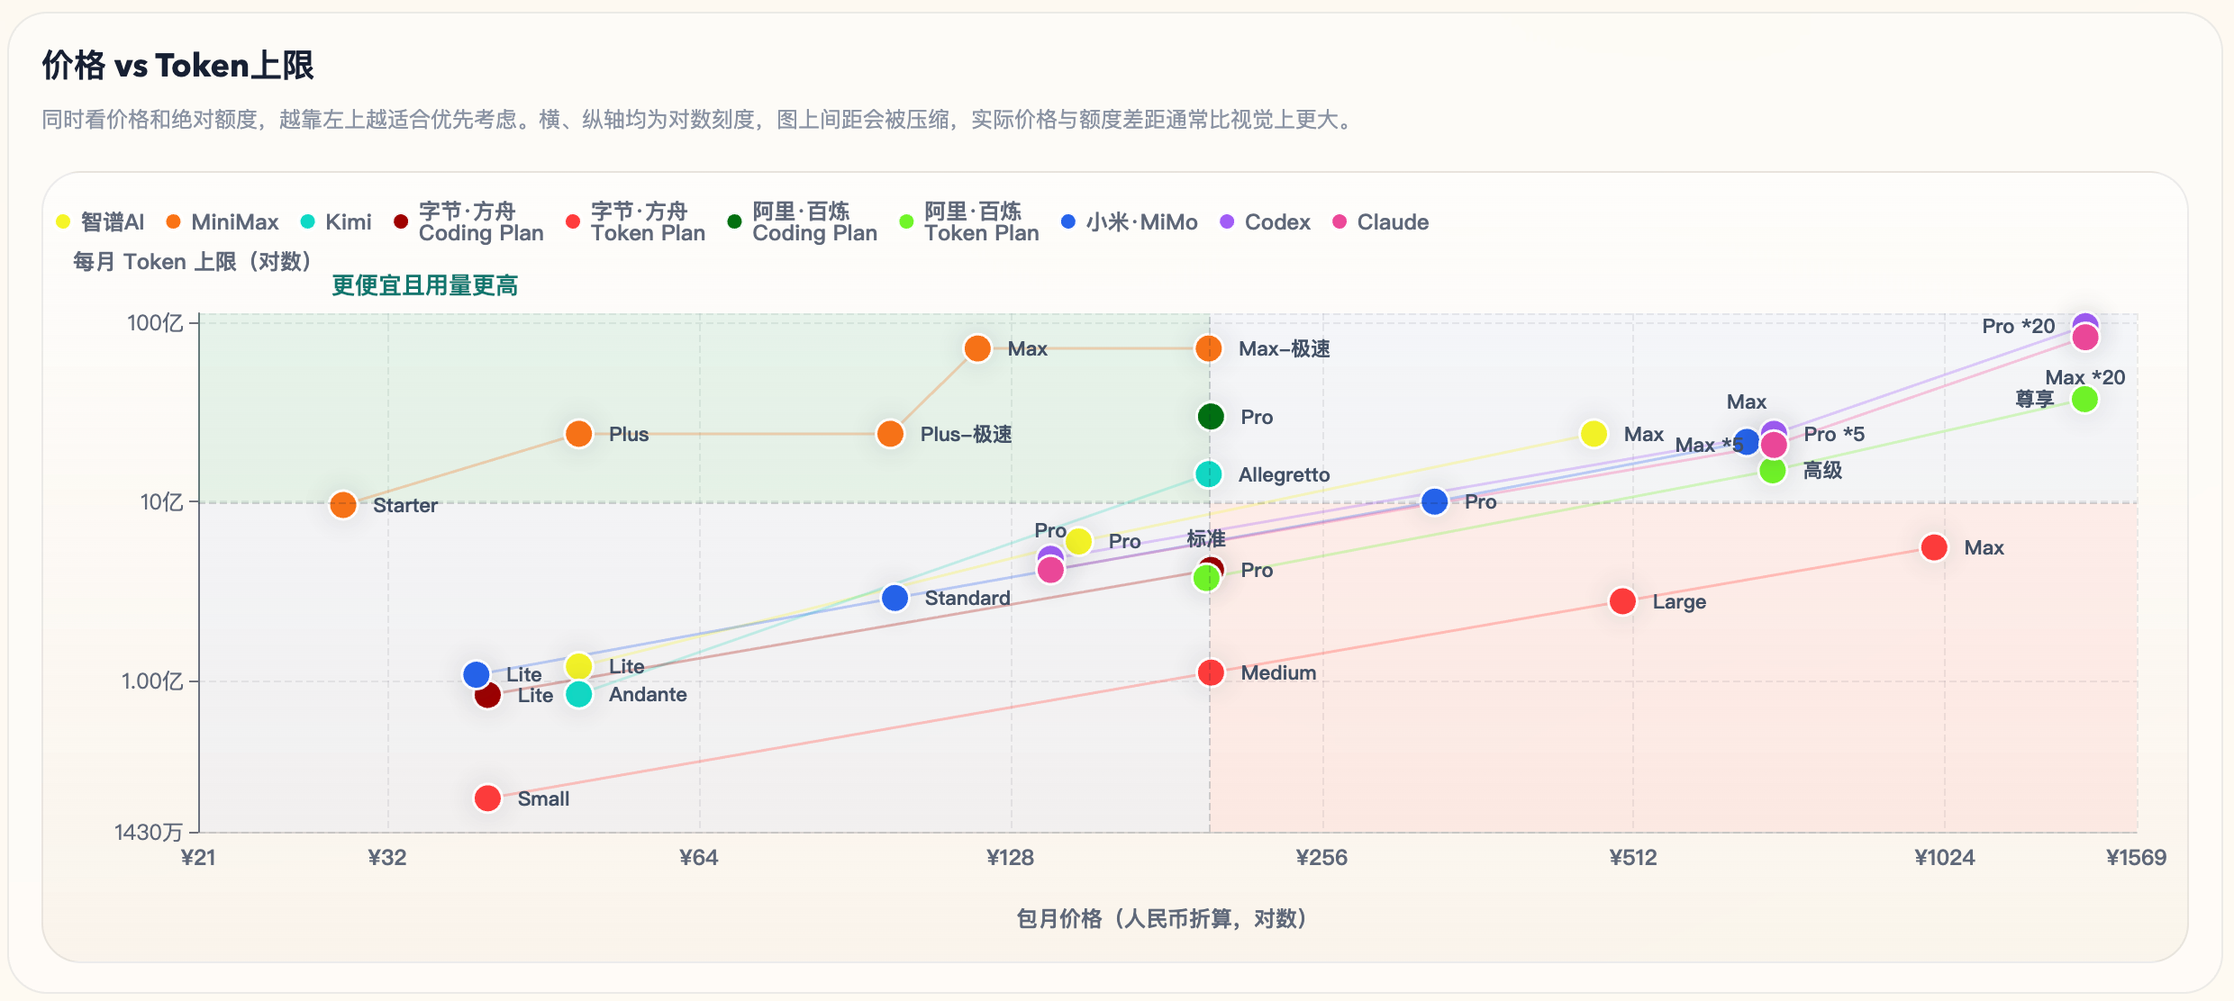
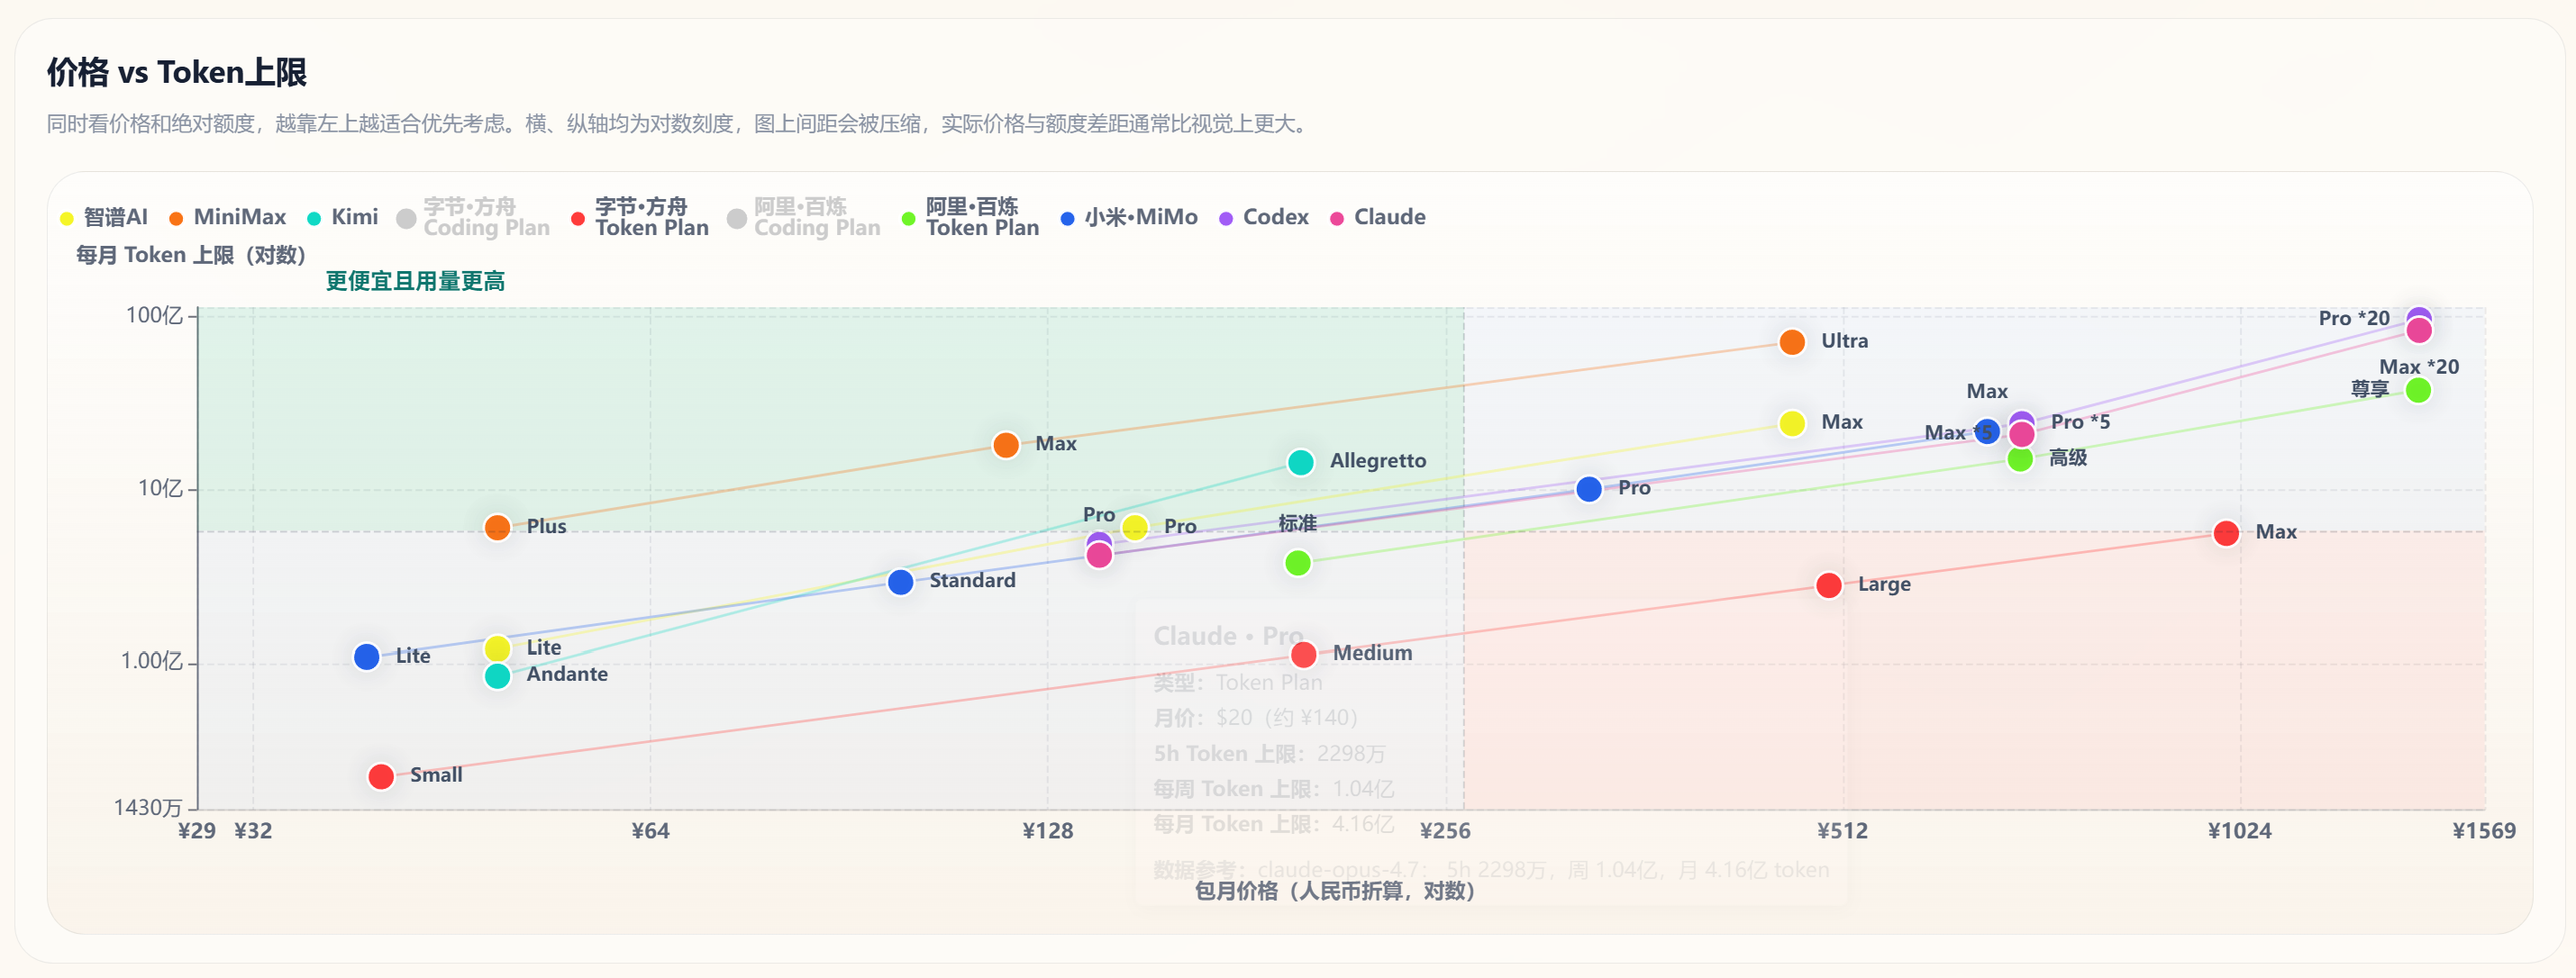
update articles

diff --git a/articles/news/20260602_minimax_m3/index.html b/articles/news/20260602_minimax_m3/index.html
@@ -711,7 +711,7 @@
 
       <div class="doc-blockquote doc-source" style="margin-top:2.25rem;padding-top:1.15rem;border-top:1px solid var(--border-color);border-left:none;background:transparent;">
         数据来源 <a href="https://vibecoding.dreamfree.space" rel="noopener noreferrer">https://vibecoding.dreamfree.space</a><br>
-        原文链接 <a href="https://www.codingplan.fyi" rel="noopener noreferrer">https://www.codingplan.fyi</a>
+        原文链接 <a href="https://vibecoding.dreamfree.space/articles/news/20260602_minimax_m3/" rel="noopener noreferrer">https://vibecoding.dreamfree.space/articles/news/20260602_minimax_m3/</a>
       </div>
     </article>
     </div>
